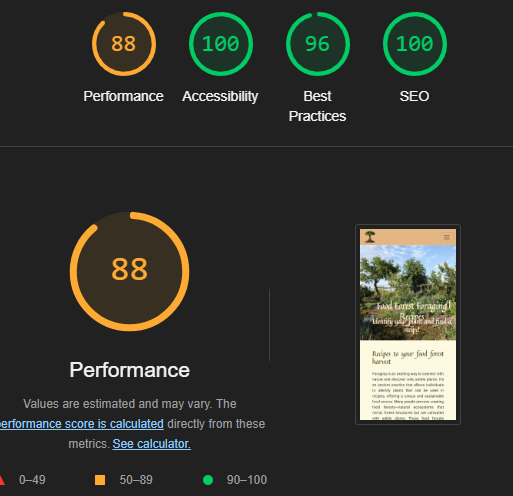
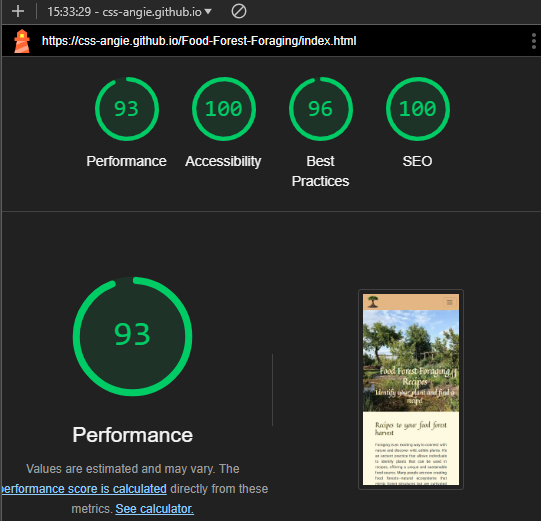
more test results

diff --git a/README.md b/README.md
@@ -421,15 +421,18 @@ I have used emmet abbreviations, but trying the abbreviations again gave a clean
 After taking them out the page was free of errors and warnings.
 ![Validation homepage](assets/readme-images/validation-homepage.png) 
 ### Performance
-In Google Chrome Developer Tools the Lighthouse report can be generated for the pages.
+In Google Chrome Developer Tools the Lighthouse report is generated for the pages. The first test had a performance result of 72% on mobile devices. No screenshot was made at the time. The most important issue was the LCP - Largest Contentful Paint. The hero image took too long to load the page. After submitting two hero images, taking a smaller one for the mobile devices, the results improved and showed a 93% performance.
 ![Validation Lighthouse mobile devices](assets/readme-images/lighthouse-mobile.png) 
 ![Validation Lighthouse desktop devices](assets/readme-images/lighthouse-desktop.png)
-Adressing issues
-
+#### Performance Issues remaining
+As the results are in the green, we will not continue to minimize the hero image
 ![Lighthouse mobile issue 1](assets/readme-images/lighthouse-mobile-issue.png)
-
+This one is somewhat confusing. For mobile devices it is said that the logo is of low quality. This is not said, when tested for desktop. As the logo is much larger on the desktop and apparently okay, this issue wil not be taken up.
 ![Lighthouse mobile issue 2](assets/readme-images/lighthouse-mobile-issue2.png) 
-
+### Accessibilty
+The page is being tested on accessibility with the [Wave Evaluation Tool](https://wave.webaim.org/) 
+No  errors are found in the contrasts
+![Contrast validation with Wave](assets/readme-images/validation-contrast-errors-homepage.png)
 
 ##  Plants page
 ### HTML
@@ -441,7 +444,9 @@ After taking them out the page was free of errors and warnings.
 ### Performance
 
 ### Accessibilty
-
+The page is being tested on accessibility with the [Wave Evaluation Tool](https://wave.webaim.org/) 
+No  errors are found in the contrasts
+![Contrast validation with Wave](assets/readme-images/validation-contrast-errors-plantpage.png)
 
 # Contact page
 ### HTML
@@ -453,6 +458,9 @@ After taking them out the page was free of errors and warnings.
 ### Performance
 
 ### Accessibilty
+The page is being tested on accessibility with the [Wave Evaluation Tool](https://wave.webaim.org/) 
+No  errors are found in the contrasts
+![Contrast validation with Wave](assets/readme-images/validation-contrast-errors-contactpage.png)
 
 ### Validating form
 To make sure data is being transferred to the backend, the formdump of Code Institute was used.
@@ -468,6 +476,9 @@ After taking them out the page was free of errors and warnings.
 ### Performance
 
 ### Accessibilty
+The page is being tested on accessibility with the [Wave Evaluation Tool](https://wave.webaim.org/) 
+No  errors are found in the contrasts
+![Contrast validation with Wave](assets/readme-images/validation-contrast-errors-chickweed.png)
 
 # dandelion page
 ### HTML
@@ -479,6 +490,9 @@ After taking them out the page was free of errors and warnings.
 ### Performance
 
 ### Accessibilty
+The page is being tested on accessibility with the [Wave Evaluation Tool](https://wave.webaim.org/) 
+No  errors are found in the contrasts
+![Contrast validation with Wave](assets/readme-images/..)
 
 # fern heads page
 ### HTML
@@ -490,6 +504,9 @@ After taking them out the page was free of errors and warnings.
 ### Performance
 
 ### Accessibilty
+The page is being tested on accessibility with the [Wave Evaluation Tool](https://wave.webaim.org/) 
+No  errors are found in the contrasts
+![Contrast validation with Wave](assets/readme-images/..)
 
 # purslane page
 ### HTML
@@ -501,6 +518,9 @@ After taking them out the page was free of errors and warnings.
 ### Performance
 
 ### Accessibilty
+The page is being tested on accessibility with the [Wave Evaluation Tool](https://wave.webaim.org/) 
+No  errors are found in the contrasts
+![Contrast validation with Wave](assets/readme-images/..)
 
 # stingly nettle page
 ### HTML
@@ -512,6 +532,9 @@ After taking them out the page was free of errors and warnings.
 ### Performance
 
 ### Accessibilty
+The page is being tested on accessibility with the [Wave Evaluation Tool](https://wave.webaim.org/) 
+No  errors are found in the contrasts
+![Contrast validation with Wave](assets/readme-images/..)
 
 # wild garlic page
 ### HTML
@@ -523,6 +546,9 @@ After taking them out the page was free of errors and warnings.
 ### Performance
 
 ### Accessibilty
+The page is being tested on accessibility with the [Wave Evaluation Tool](https://wave.webaim.org/) 
+No  errors are found in the contrasts
+![Contrast validation with Wave](assets/readme-images/..)
 
 # thank you page
 ### HTML
@@ -534,6 +560,9 @@ After taking them out the page was free of errors and warnings.
 ### Performance
 
 ### Accessibilty
+The page is being tested on accessibility with the [Wave Evaluation Tool](https://wave.webaim.org/) 
+No  errors are found in the contrasts
+![Contrast validation with Wave](assets/readme-images/validation-contrast-errors-thankyou.png)
 
 # 404 page
 ### HTML
@@ -544,11 +573,22 @@ After taking them out the page was free of errors and warnings.
 ![Validation 404 page](assets/readme-images/validation-404.png) 
 ### Performance
 
-### Accessibilty
-The page is being tested on accessibility with the [Wave Evaluation Tool](https://wave.webaim.org/)  
+### Accessibility
+The page is being tested on accessibility with the [Wave Evaluation Tool](https://wave.webaim.org/) 
+No  errors are found in the contrasts
+![Contrast validation with Wave](assets/readme-images/validation-contrast-errors-404.png)
+ 
 
-[Back to top](<#table-of-content>)
 
+## Responsiveness of different devices
+Testing the website on a real iPhone 12 gave a different result than in DevTools. 
+In one of the README's I came across the website [Responsinator](https://www.responsinator.com) and tested the website there as well. As the same results were shown, the H2 heading needed to be adapted on the homepage.
+
+![Issue responsiveness](assets/readme-images/Issue%20responsiveness.png)
+
+After adressing the bug (taking out the height for ththe h2 heading), the result was:
+
+![Issue responsiveness](assets/readme-images/responsiveness-after-correction.png)
 
 ## Manual Testing of Features
 
@@ -572,7 +612,7 @@ The page is being tested on accessibility with the [Wave Evaluation Tool](https:
 |- | - |Pass|
 
 
-
+[Back to top](<#table-of-content>)
 
 
 
